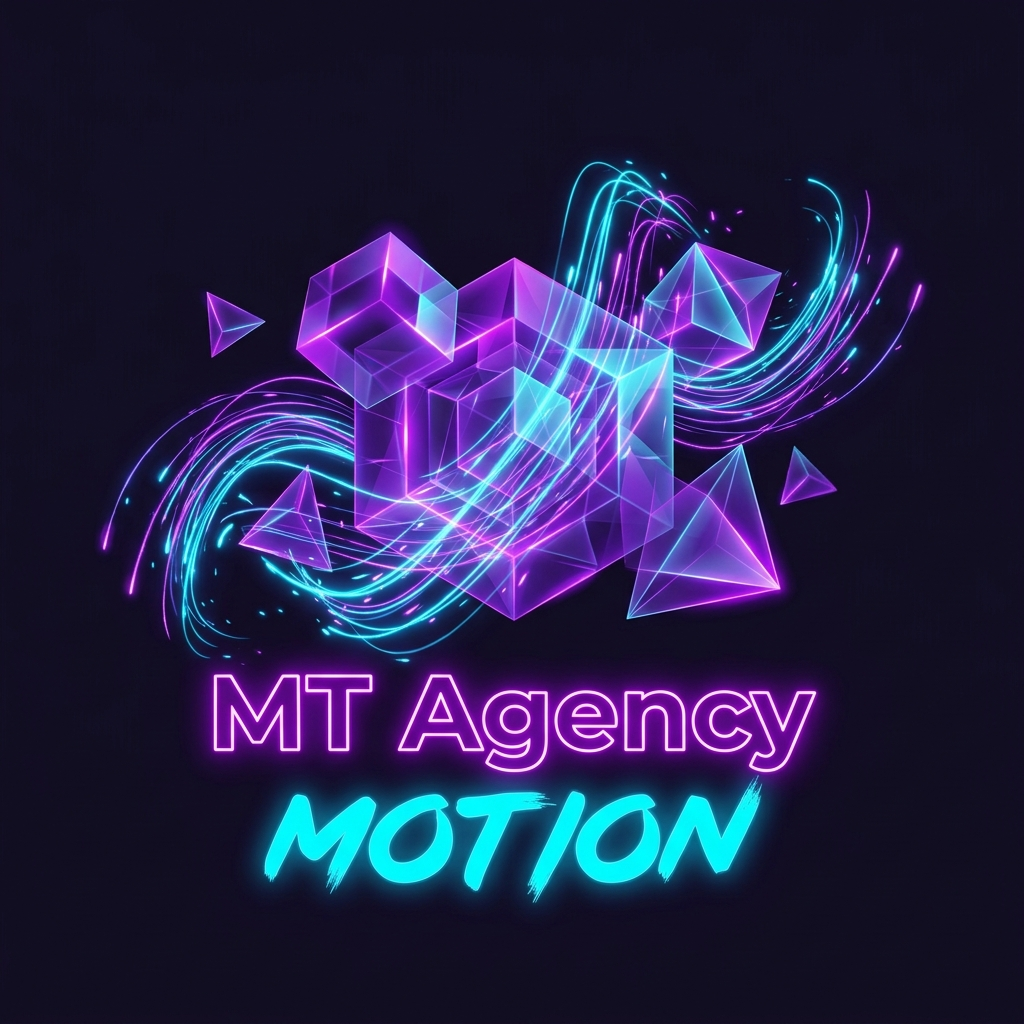
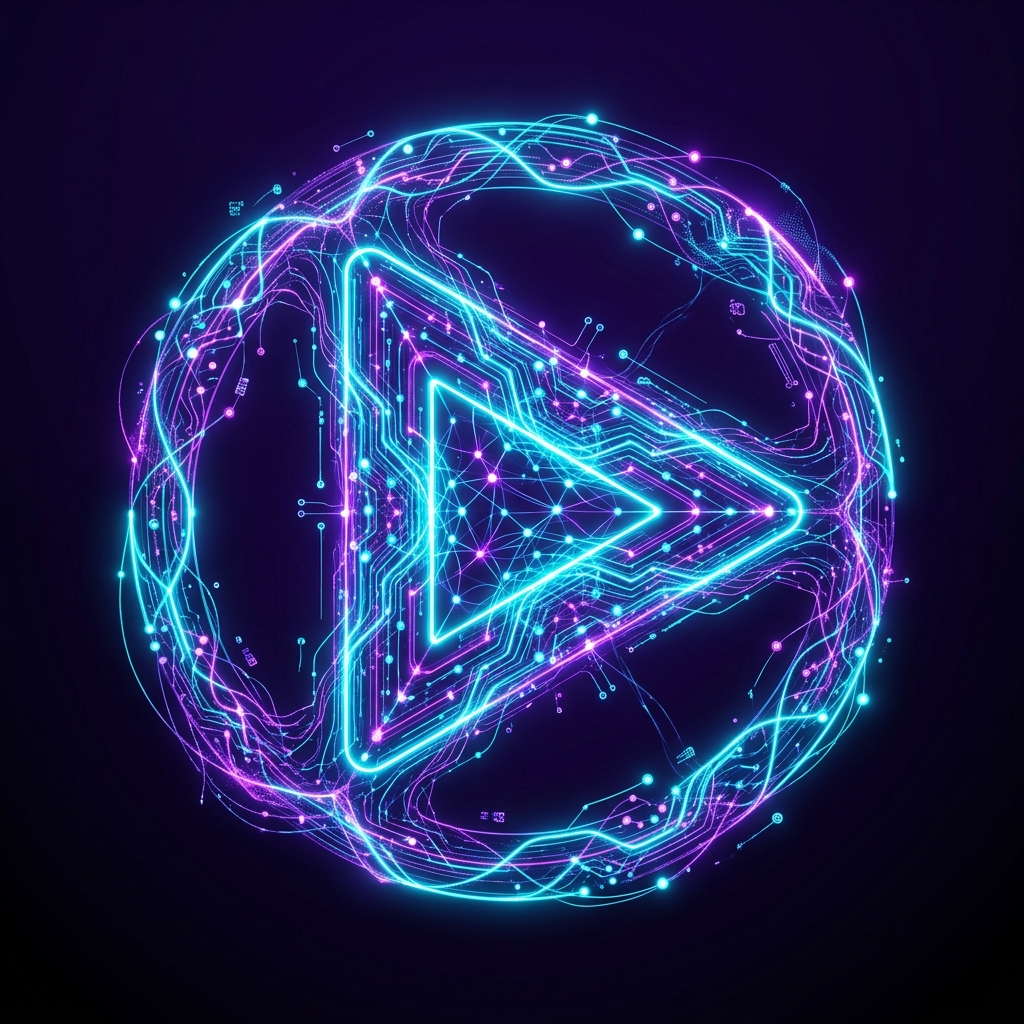
Fix hard rectangular edge with radial mask and remove all text from images

diff --git a/src/components/Hero.css b/src/components/Hero.css
@@ -71,9 +71,12 @@
   left: 0;
   width: 100%;
   height: 100%;
-  object-fit: contain; /* Contain ensures the full object is visible without clipping */
+  object-fit: contain;
   opacity: 0;
   transition: opacity 1.5s ease-in-out;
+  /* Crucial mask to kill the hard rectangular borders from AI images and make them look 'transparent/hollowed' */
+  -webkit-mask-image: radial-gradient(ellipse at center, rgba(0,0,0,1) 45%, rgba(0,0,0,0) 75%);
+  mask-image: radial-gradient(ellipse at center, rgba(0,0,0,1) 45%, rgba(0,0,0,0) 75%);
 }
 
 .hero-slider-img.active {